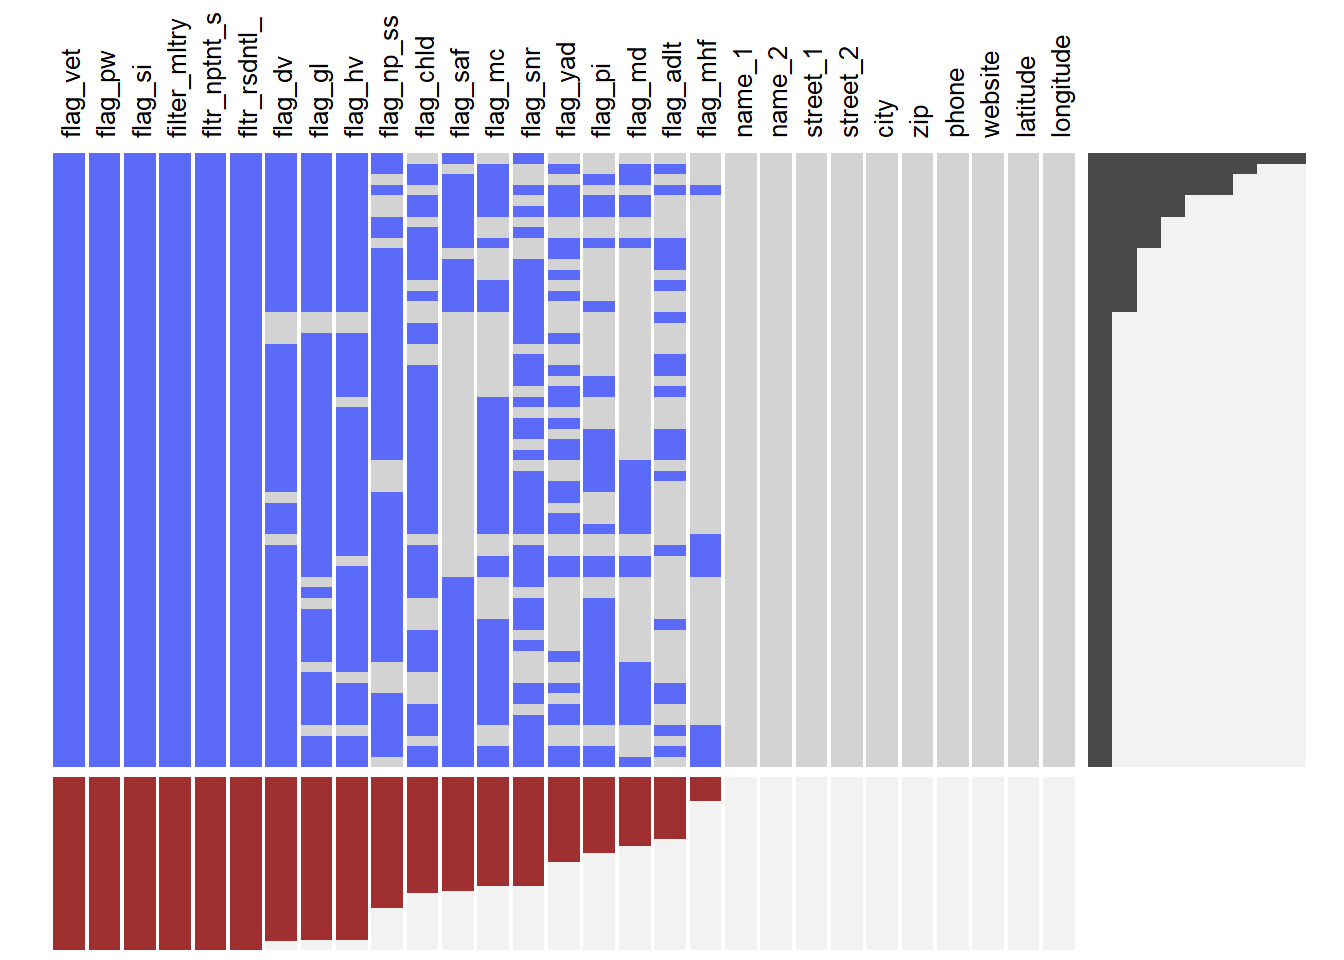
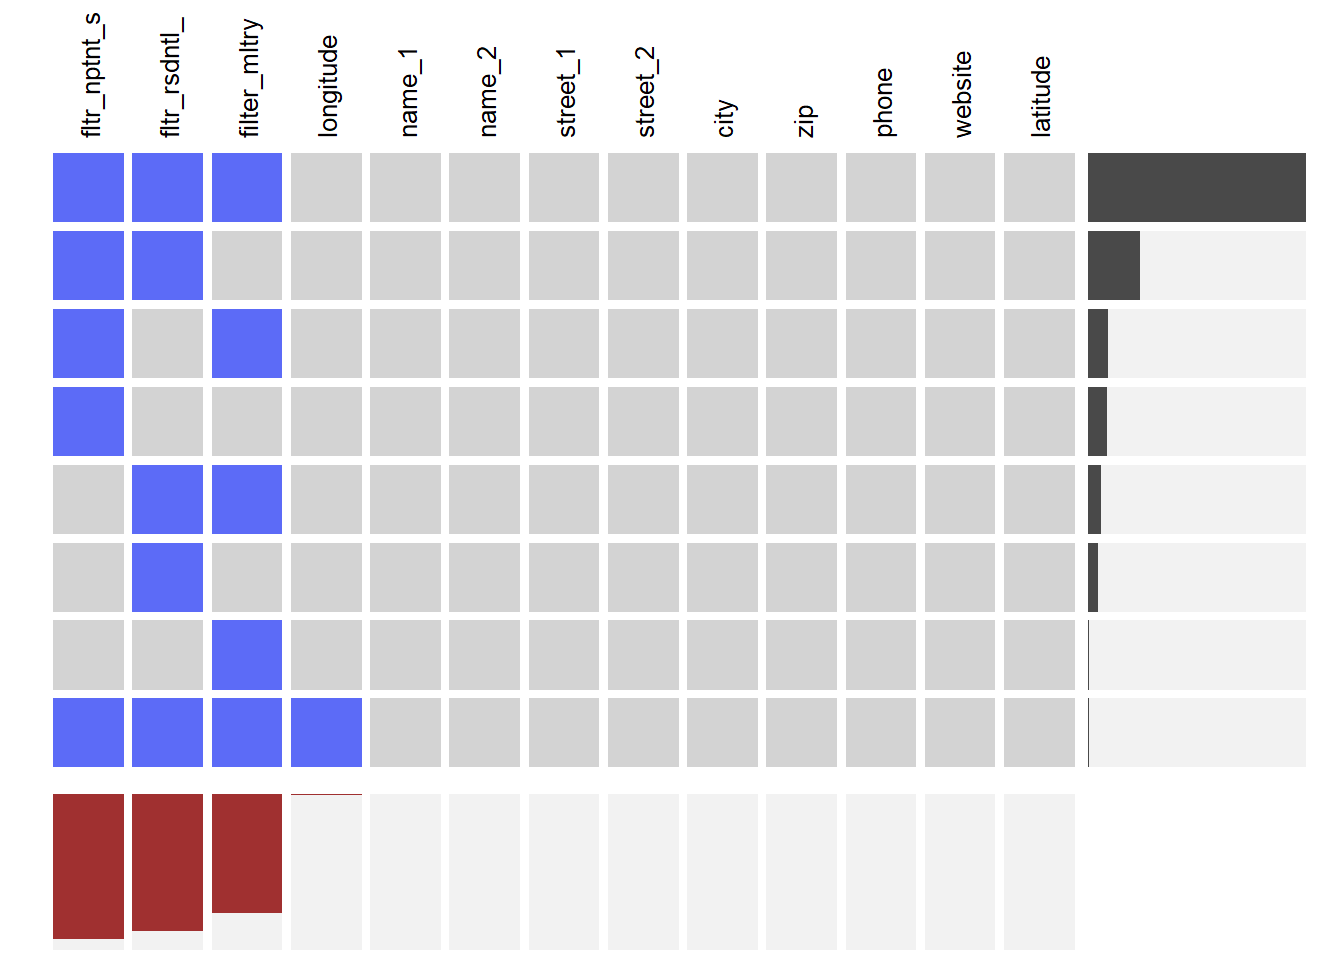
delete flag* columns in Dataset 3

diff --git a/docs/missing-values.html b/docs/missing-values.html
@@ -181,7 +181,7 @@ code span.wa { color: #60a0b0; font-weight: bold; font-style: italic; } /* Warni
 <span id="cb2-5"><a href="missing-values.html#cb2-5" aria-hidden="true" tabindex="-1"></a></span>
 <span id="cb2-6"><a href="missing-values.html#cb2-6" aria-hidden="true" tabindex="-1"></a><span class="fu">ggplot</span>(tidynyc, <span class="fu">aes</span>(<span class="at">x =</span> key, <span class="at">y =</span> <span class="fu">fct_rev</span>(id), <span class="at">fill =</span> missing)) <span class="sc">+</span></span>
 <span id="cb2-7"><a href="missing-values.html#cb2-7" aria-hidden="true" tabindex="-1"></a>  <span class="fu">geom_tile</span>(<span class="at">color =</span> <span class="st">&quot;white&quot;</span>) <span class="sc">+</span> </span>
-<span id="cb2-8"><a href="missing-values.html#cb2-8" aria-hidden="true" tabindex="-1"></a>  <span class="fu">ggtitle</span>(<span class="st">&quot;mtcars with NAs added&quot;</span>) <span class="sc">+</span></span>
+<span id="cb2-8"><a href="missing-values.html#cb2-8" aria-hidden="true" tabindex="-1"></a>  <span class="fu">ggtitle</span>(<span class="st">&quot;Missing pattern of arrests data&quot;</span>) <span class="sc">+</span></span>
 <span id="cb2-9"><a href="missing-values.html#cb2-9" aria-hidden="true" tabindex="-1"></a>  <span class="fu">scale_fill_viridis_d</span>() <span class="sc">+</span> <span class="co"># discrete scale</span></span>
 <span id="cb2-10"><a href="missing-values.html#cb2-10" aria-hidden="true" tabindex="-1"></a>  <span class="fu">theme_bw</span>()<span class="sc">+</span></span>
 <span id="cb2-11"><a href="missing-values.html#cb2-11" aria-hidden="true" tabindex="-1"></a>  <span class="fu">theme</span>(<span class="at">axis.text.x =</span> <span class="fu">element_text</span>(<span class="at">angle =</span> <span class="dv">90</span>, <span class="at">vjust=</span>.<span class="dv">5</span>, <span class="at">hjust=</span><span class="dv">1</span>))</span></code></pre></div>
@@ -211,7 +211,7 @@ code span.wa { color: #60a0b0; font-weight: bold; font-style: italic; } /* Warni
 <span id="cb7-5"><a href="missing-values.html#cb7-5" aria-hidden="true" tabindex="-1"></a></span>
 <span id="cb7-6"><a href="missing-values.html#cb7-6" aria-hidden="true" tabindex="-1"></a><span class="fu">ggplot</span>(tidycovid, <span class="fu">aes</span>(<span class="at">x =</span> key, <span class="at">y =</span> <span class="fu">fct_rev</span>(id), <span class="at">fill =</span> missing)) <span class="sc">+</span></span>
 <span id="cb7-7"><a href="missing-values.html#cb7-7" aria-hidden="true" tabindex="-1"></a>  <span class="fu">geom_tile</span>(<span class="at">color =</span> <span class="st">&quot;white&quot;</span>) <span class="sc">+</span> </span>
-<span id="cb7-8"><a href="missing-values.html#cb7-8" aria-hidden="true" tabindex="-1"></a>  <span class="fu">ggtitle</span>(<span class="st">&quot;mtcars with NAs added&quot;</span>) <span class="sc">+</span></span>
+<span id="cb7-8"><a href="missing-values.html#cb7-8" aria-hidden="true" tabindex="-1"></a>  <span class="fu">ggtitle</span>(<span class="st">&quot;Missing pattern of COVID-19 data&quot;</span>) <span class="sc">+</span></span>
 <span id="cb7-9"><a href="missing-values.html#cb7-9" aria-hidden="true" tabindex="-1"></a>  <span class="fu">scale_fill_viridis_d</span>() <span class="sc">+</span> <span class="co"># discrete scale</span></span>
 <span id="cb7-10"><a href="missing-values.html#cb7-10" aria-hidden="true" tabindex="-1"></a>  <span class="fu">theme_bw</span>()<span class="sc">+</span></span>
 <span id="cb7-11"><a href="missing-values.html#cb7-11" aria-hidden="true" tabindex="-1"></a>  <span class="fu">theme</span>(<span class="at">axis.text.x =</span> <span class="fu">element_text</span>(<span class="at">angle =</span> <span class="dv">90</span>, <span class="at">vjust=</span>.<span class="dv">5</span>, <span class="at">hjust=</span><span class="dv">1</span>))</span></code></pre></div>
@@ -231,7 +231,8 @@ code span.wa { color: #60a0b0; font-weight: bold; font-style: italic; } /* Warni
 </div>
 <div id="data-3-mental-health-data" class="section level3" number="4.0.3">
 <h3><span class="header-section-number">4.0.3</span> DATA-3 Mental Health Data</h3>
-<div class="sourceCode" id="cb11"><pre class="sourceCode r"><code class="sourceCode r"><span id="cb11-1"><a href="missing-values.html#cb11-1" aria-hidden="true" tabindex="-1"></a>mental <span class="ot">&lt;-</span> <span class="fu">read.csv</span>(<span class="st">&quot;Mental_Health_Service_Finder_Data.csv&quot;</span>,<span class="at">nrows =</span> <span class="dv">100</span>)</span></code></pre></div>
+<div class="sourceCode" id="cb11"><pre class="sourceCode r"><code class="sourceCode r"><span id="cb11-1"><a href="missing-values.html#cb11-1" aria-hidden="true" tabindex="-1"></a>mental <span class="ot">&lt;-</span> <span class="fu">read.csv</span>(<span class="st">&quot;Mental_Health_Service_Finder_Data.csv&quot;</span>)</span>
+<span id="cb11-2"><a href="missing-values.html#cb11-2" aria-hidden="true" tabindex="-1"></a>mental <span class="ot">&lt;-</span> <span class="fu">select</span>(mental,<span class="sc">-</span><span class="fu">contains</span>(<span class="st">&quot;flag&quot;</span>))</span></code></pre></div>
 <div class="sourceCode" id="cb12"><pre class="sourceCode r"><code class="sourceCode r"><span id="cb12-1"><a href="missing-values.html#cb12-1" aria-hidden="true" tabindex="-1"></a>tidymental <span class="ot">&lt;-</span> mental <span class="sc">%&gt;%</span> </span>
 <span id="cb12-2"><a href="missing-values.html#cb12-2" aria-hidden="true" tabindex="-1"></a>    <span class="fu">rownames_to_column</span>(<span class="st">&quot;id&quot;</span>) <span class="sc">%&gt;%</span> </span>
 <span id="cb12-3"><a href="missing-values.html#cb12-3" aria-hidden="true" tabindex="-1"></a>    <span class="fu">gather</span>(key, value, <span class="sc">-</span>id) <span class="sc">%&gt;%</span> </span>
@@ -239,7 +240,7 @@ code span.wa { color: #60a0b0; font-weight: bold; font-style: italic; } /* Warni
 <span id="cb12-5"><a href="missing-values.html#cb12-5" aria-hidden="true" tabindex="-1"></a></span>
 <span id="cb12-6"><a href="missing-values.html#cb12-6" aria-hidden="true" tabindex="-1"></a><span class="fu">ggplot</span>(tidymental, <span class="fu">aes</span>(<span class="at">x =</span> key, <span class="at">y =</span> <span class="fu">fct_rev</span>(id), <span class="at">fill =</span> missing)) <span class="sc">+</span></span>
 <span id="cb12-7"><a href="missing-values.html#cb12-7" aria-hidden="true" tabindex="-1"></a>  <span class="fu">geom_tile</span>(<span class="at">color =</span> <span class="st">&quot;white&quot;</span>) <span class="sc">+</span> </span>
-<span id="cb12-8"><a href="missing-values.html#cb12-8" aria-hidden="true" tabindex="-1"></a>  <span class="fu">ggtitle</span>(<span class="st">&quot;mtcars with NAs added&quot;</span>) <span class="sc">+</span></span>
+<span id="cb12-8"><a href="missing-values.html#cb12-8" aria-hidden="true" tabindex="-1"></a>  <span class="fu">ggtitle</span>(<span class="st">&quot;Missing pattern of mental health data&quot;</span>) <span class="sc">+</span></span>
 <span id="cb12-9"><a href="missing-values.html#cb12-9" aria-hidden="true" tabindex="-1"></a>  <span class="fu">scale_fill_viridis_d</span>() <span class="sc">+</span> <span class="co"># discrete scale</span></span>
 <span id="cb12-10"><a href="missing-values.html#cb12-10" aria-hidden="true" tabindex="-1"></a>  <span class="fu">theme_bw</span>()<span class="sc">+</span></span>
 <span id="cb12-11"><a href="missing-values.html#cb12-11" aria-hidden="true" tabindex="-1"></a>  <span class="fu">theme</span>(<span class="at">axis.text.x =</span> <span class="fu">element_text</span>(<span class="at">angle =</span> <span class="dv">90</span>, <span class="at">vjust=</span>.<span class="dv">5</span>, <span class="at">hjust=</span><span class="dv">1</span>))</span></code></pre></div>
